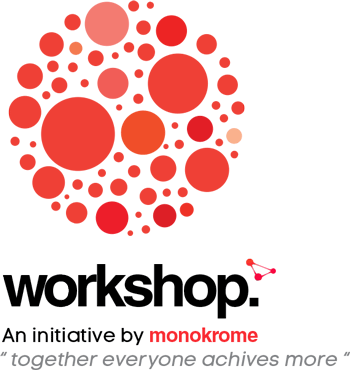
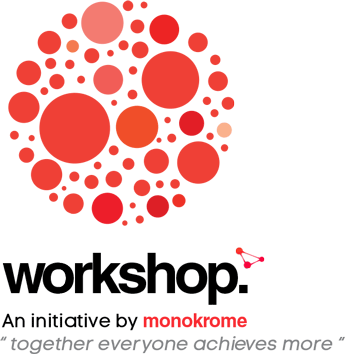
workshop 1.3

diff --git a/MonokromeLive/post02.html b/MonokromeLive/post02.html
@@ -89,7 +89,7 @@
                     <div class="post-heading">
                         <h1>workshop.</h1>
                         <h2 class="subheading">An initiative by monokrome</h2>
-                        <span class="meta">"Together everyone achives more"</span>
+                        <span class="meta">"Together everyone achieves more"</span>
                     </div>
                 </div>
             </div>
